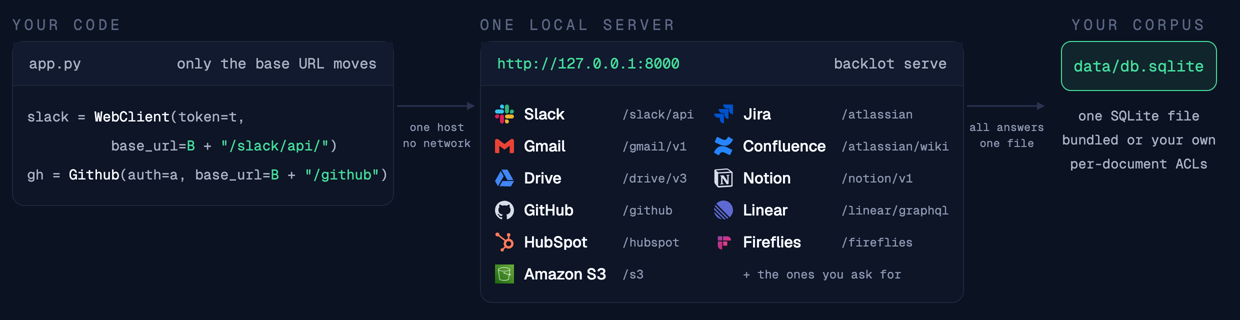
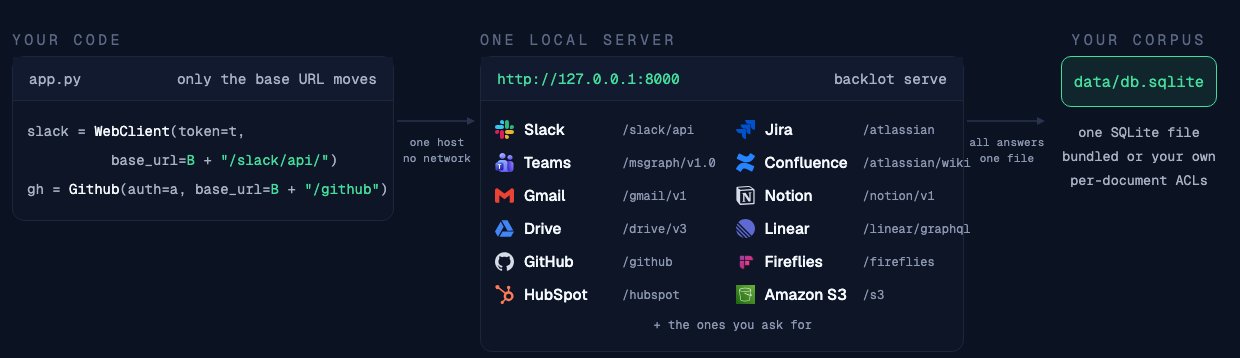
The README names Microsoft Teams in its first sentence and in the architecture figure
The first sentence of README.md and README.pypi.md lists Microsoft Teams between Slack and Gmail, and the architecture figures carry a Teams row at `/msgraph/v1.0` in both colour schemes, the left column now Slack, Teams, Gmail, Drive, GitHub and HubSpot and the right Jira, Confluence, Notion, Linear, Fireflies and Amazon S3.

diff --git a/README.md b/README.md
@@ -11,7 +11,7 @@
 
 **Run enterprise SaaS APIs locally.**
 
-Backlot is a local emulator for Slack, Gmail, Google Drive, GitHub, Jira, Notion, S3 and other enterprise APIs. It reproduces the response shapes, pagination, authentication, errors and per-document access controls an integration has to handle, over a deterministic corpus you control — so you build and test against the official vendor SDKs with **no vendor account**, **no OAuth approval**, **no secrets in CI** and **no network**.
+Backlot is a local emulator for Slack, Microsoft Teams, Gmail, Google Drive, GitHub, Jira, Notion, S3 and other enterprise APIs. It reproduces the response shapes, pagination, authentication, errors and per-document access controls an integration has to handle, over a deterministic corpus you control — so you build and test against the official vendor SDKs with **no vendor account**, **no OAuth approval**, **no secrets in CI** and **no network**.
 
 ![Connecting Slack to an app, two ways, side by side. On the left, the real Slack API: create a workspace, register an app, add a bot user, pick OAuth scopes, register a redirect URL, install to the workspace — then wait on an admin to approve it, with still zero API calls made. On the right, Backlot: pip install, backlot serve, and one changed base URL, after which a conversations.history response comes back with the same fields, pagination and per-document ACLs. A day gone, against seconds.](assets/demo.gif)
 

diff --git a/README.pypi.md b/README.pypi.md
@@ -10,7 +10,7 @@
 
 **Run enterprise SaaS APIs locally.**
 
-Backlot is a local emulator for Slack, Gmail, Google Drive, GitHub, Jira, Notion, S3 and other enterprise APIs. It reproduces the response shapes, pagination, authentication, errors and per-document access controls an integration has to handle, over a deterministic corpus you control — so you build and test against the official vendor SDKs with **no vendor account**, **no OAuth approval**, **no secrets in CI** and **no network**.
+Backlot is a local emulator for Slack, Microsoft Teams, Gmail, Google Drive, GitHub, Jira, Notion, S3 and other enterprise APIs. It reproduces the response shapes, pagination, authentication, errors and per-document access controls an integration has to handle, over a deterministic corpus you control — so you build and test against the official vendor SDKs with **no vendor account**, **no OAuth approval**, **no secrets in CI** and **no network**.
 
 ## Try it in 60 seconds
 
